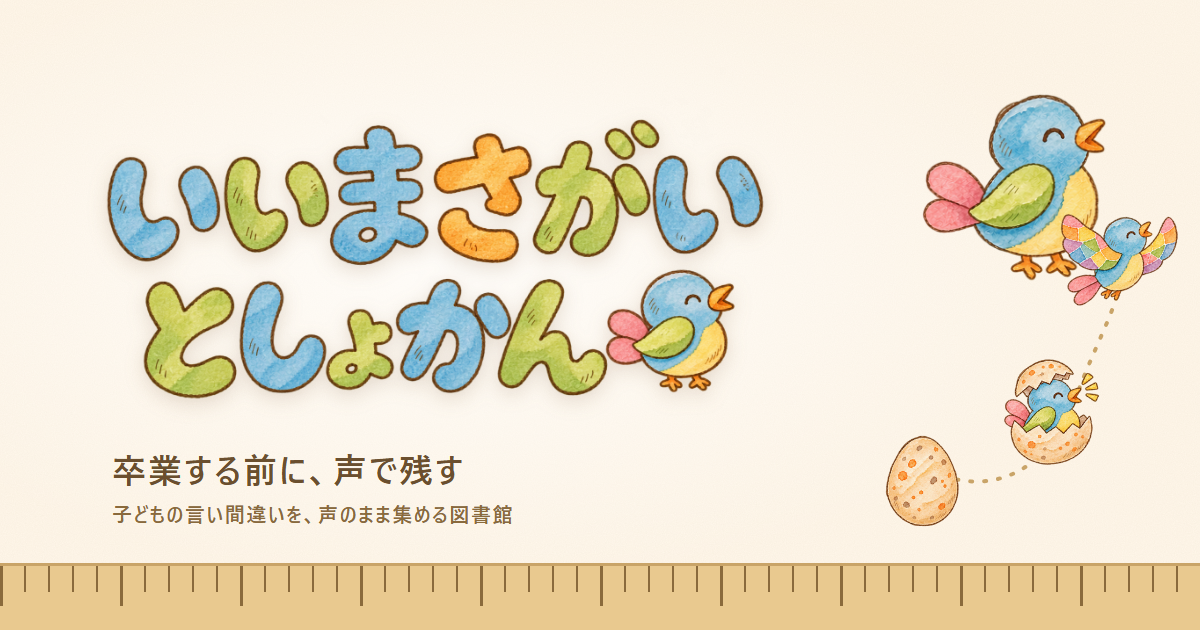
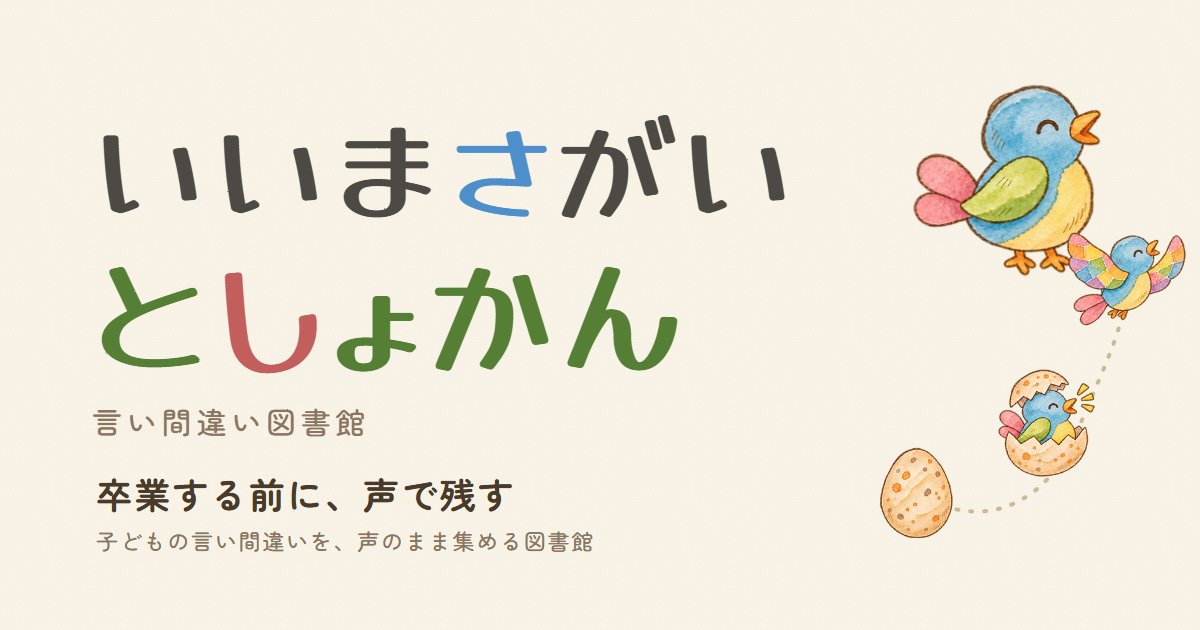
docs: バナーとロゴを、実際のプロダクトのロゴ(ui.css)から作り直す

diff --git a/article.md b/article.md
@@ -22,7 +22,7 @@ Qiita 記事の下書き（HACKATHON.md の7項目に沿う）。事実の出典
 
 AI HACK Special One-Day Hackathon（テーマ「話すだけで誰かの面倒を減らすアプリ」）で、**AquaVoice** を使って作りました。
 
-![ロゴ](https://raw.githubusercontent.com/ianyo210/aihack-asoo-iwata/main/docs/article/assets/A-1-logo.png)
+![ロゴ（アプリの画面と同じもの）](https://raw.githubusercontent.com/ianyo210/aihack-asoo-iwata/main/docs/article/assets/A-1-product-logo.png)
 
 ## 2. 解決したい困りごと
 

diff --git a/docs/article/article-publish.md b/docs/article/article-publish.md
@@ -12,7 +12,7 @@
 
 AI HACK Special One-Day Hackathon（テーマ「話すだけで誰かの面倒を減らすアプリ」）で、**AquaVoice** を使って作りました。
 
-![ロゴ](https://raw.githubusercontent.com/ianyo210/aihack-asoo-iwata/main/docs/article/assets/A-1-logo.png)
+![ロゴ（アプリの画面と同じもの）](https://raw.githubusercontent.com/ianyo210/aihack-asoo-iwata/main/docs/article/assets/A-1-product-logo.png)
 
 ## 2. 解決したい困りごと
 
